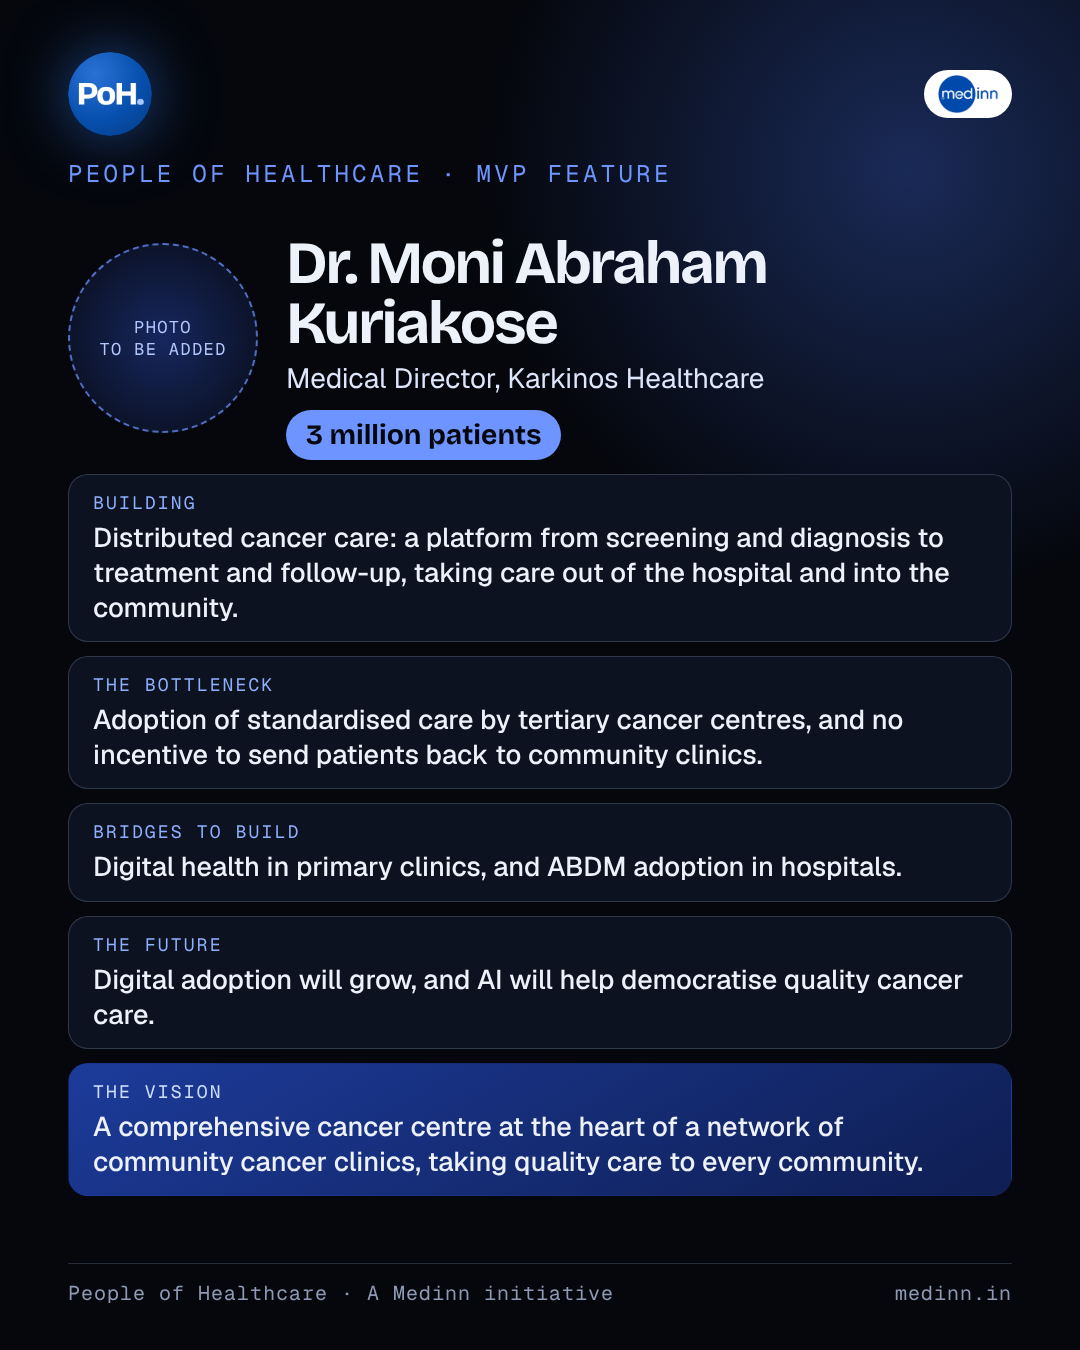
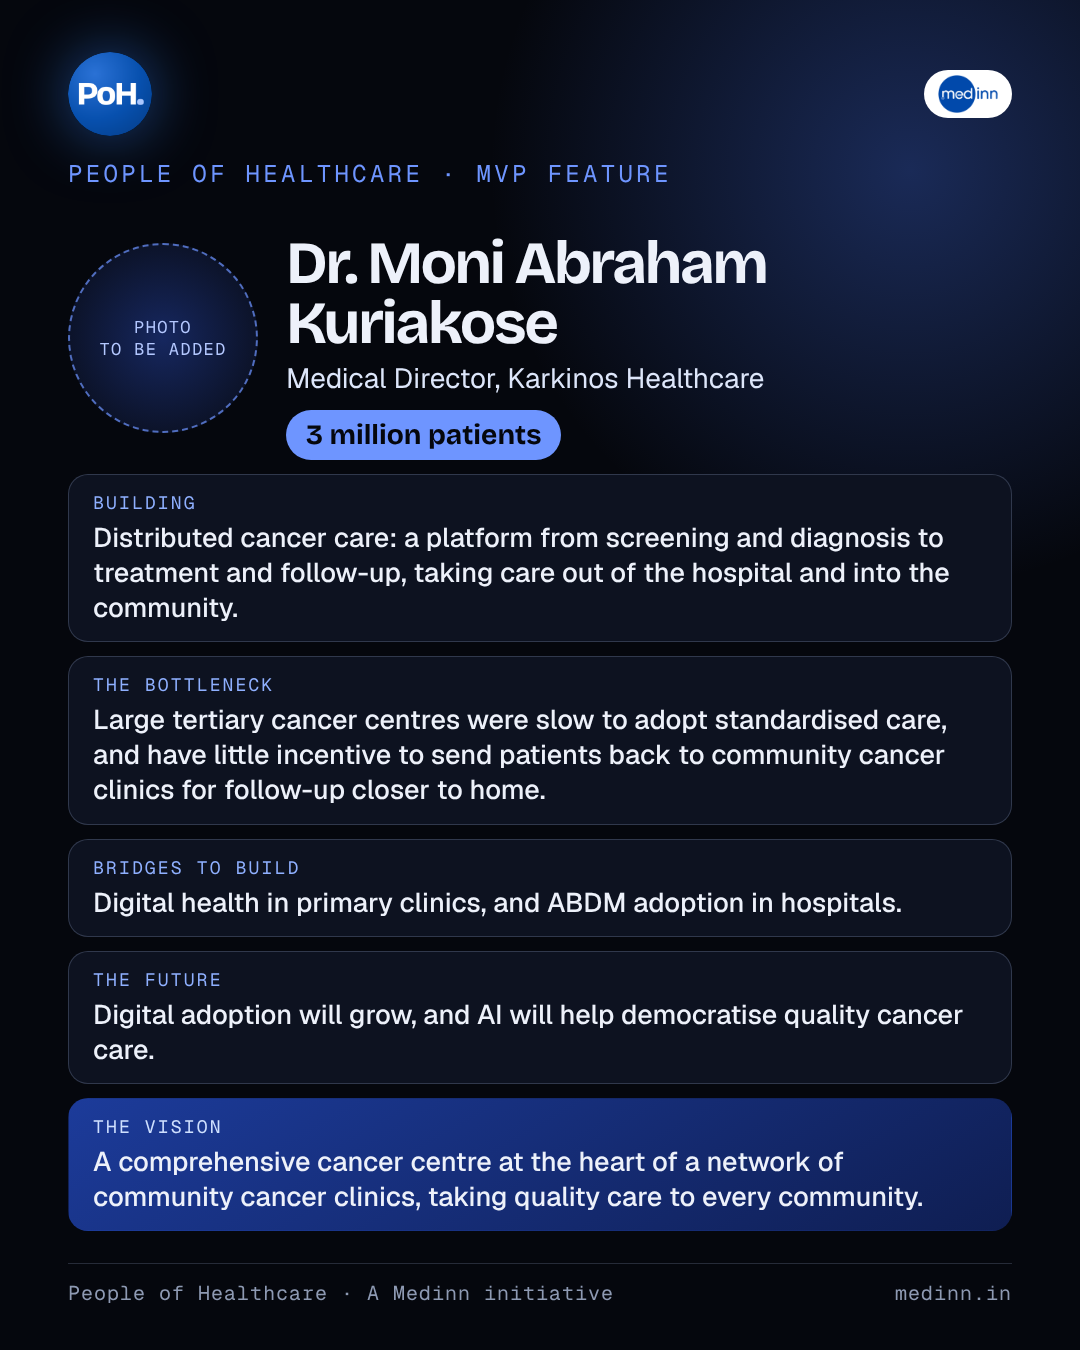
PoH: clarify the bottleneck wording in the Moni feature drafts
Claude-Session: https://claude.ai/code/session_01W3TbE8YKBoTijxvT3pRDYX

Changed region(s): [[0.0611, 0.5289, 0.9472, 0.9333]]

diff --git a/editorial/poh/feature-moni-poster.html b/editorial/poh/feature-moni-poster.html
@@ -38,7 +38,7 @@ li i{font-style:normal;font-family:B;font-weight:800;font-size:44px;color:#6E95F
 <p class="k" style="margin-top:22px">People of Healthcare · MVP feature</p>
 <div class="who"><div class="ph">PHOTO<br>TO BE ADDED</div><div><h1>Dr. Moni Abraham Kuriakose</h1><p>Medical Director, Karkinos Healthcare</p><span class="chip">3 million patients</span></div></div>
 <div class="blk"><small>Building</small><p>Distributed cancer care: a platform from screening and diagnosis to treatment and follow-up, taking care out of the hospital and into the community.</p></div>
-<div class="blk"><small>The bottleneck</small><p>Adoption of standardised care by tertiary cancer centres, and no incentive to send patients back to community clinics.</p></div>
+<div class="blk"><small>The bottleneck</small><p>Large tertiary cancer centres were slow to adopt standardised care, and have little incentive to send patients back to community cancer clinics for follow-up closer to home.</p></div>
 <div class="blk"><small>Bridges to build</small><p>Digital health in primary clinics, and ABDM adoption in hospitals.</p></div>
 <div class="blk"><small>The future</small><p>Digital adoption will grow, and AI will help democratise quality cancer care.</p></div>
 <div class="blk f"><small>The vision</small><p>A comprehensive cancer centre at the heart of a network of community cancer clinics, taking quality care to every community.</p></div>

diff --git a/editorial/poh/features/karkinos-healthcare-article-draft.md b/editorial/poh/features/karkinos-healthcare-article-draft.md
@@ -10,7 +10,7 @@ Most cancer care in India still begins and ends inside a hospital. Karkinos Heal
 
 **What Karkinos is building.** Karkinos has developed a technology platform that supports a patient through the whole journey: screening, diagnosis, treatment and follow-up, delivered in a distributed fashion, closer to where people live. Dr. Kuriakose says the platform has served around 3 million patients (his figure). Karkinos also runs a research and diagnostics laboratory in Kochi, the Advanced Center for Cancer Diagnostics and Research, which serves as a central lab for its network, with work focused on early diagnostic tools and molecular assays for precision medicine (source: Indian Pharma Post, June 2022).
 
-**The bottleneck.** The hardest part, he says, has been adoption of standardised care by tertiary cancer centres, and the lack of an incentive for those centres to send patients back to community cancer clinics after treatment. A distributed model only works if care actually flows back out.
+**The bottleneck.** Two things held it back, he says. First, getting tertiary cancer centres, the large specialist hospitals, to adopt standardised care, so that a patient follows the same agreed pathway wherever they are treated. Second, once a patient has been treated, those centres have little incentive to send them back to a community cancer clinic for follow-up and continuing care closer to home. A distributed model only works if care actually flows back out into the community. *(Confirm with him that this is what he means.)*
 
 **The bridges that need to be built.** Better adoption of digital health in primary health clinics, and adoption of the ABDM (Ayushman Bharat Digital Mission) system in hospitals. These are the connections that let a patient's record, and their care, move between a community clinic and a specialist centre.
 

diff --git a/editorial/poh/features/moni-abraham-kuriakose-draft.md b/editorial/poh/features/moni-abraham-kuriakose-draft.md
@@ -16,7 +16,7 @@ Dr. Moni Abraham Kuriakose, Medical Director, Karkinos Healthcare
 
 Karkinos Healthcare is building distributed cancer care. Its technology platform supports a patient from screening and diagnosis through treatment and follow-up, and takes care out of the four walls of the hospital and into the community. The idea behind it: the community as a cancer centre. Karkinos reports serving about 3 million patients (his figure, to be confirmed).
 
-The hardest part, he says, was adoption of standardised care by tertiary cancer centres, and the lack of an incentive to send patients back to community cancer clinics.
+The hardest part, he says, was twofold: tertiary cancer centres were slow to adopt standardised care, and they have little incentive to send patients back to community cancer clinics for follow-up closer to home. [Confirm this reading with him.]
 
 What is needed: better adoption of digital health in primary health clinics, and adoption of ABDM in hospitals.
 
@@ -30,4 +30,5 @@ His view of the future: digital adoption in healthcare will keep rising, and AI 
 Sir, thank you, this is very valuable. Three quick clarifications:
 1. By "improved ability of health records", did you mean availability, or interoperability?
 2. One last question: what would help hospitals and startups discover and adopt platforms like yours?
+4. By "send back patients to the community clinics", do you mean after treatment, for follow-up and continuing care at a clinic near the patient's home? And is the lack of incentive financial, or about referral and reputation?
 3. (Only for PoH Asks, separate from the feature) May I share your need as an anonymous PoH Ask, or would you like it attributed to you?
